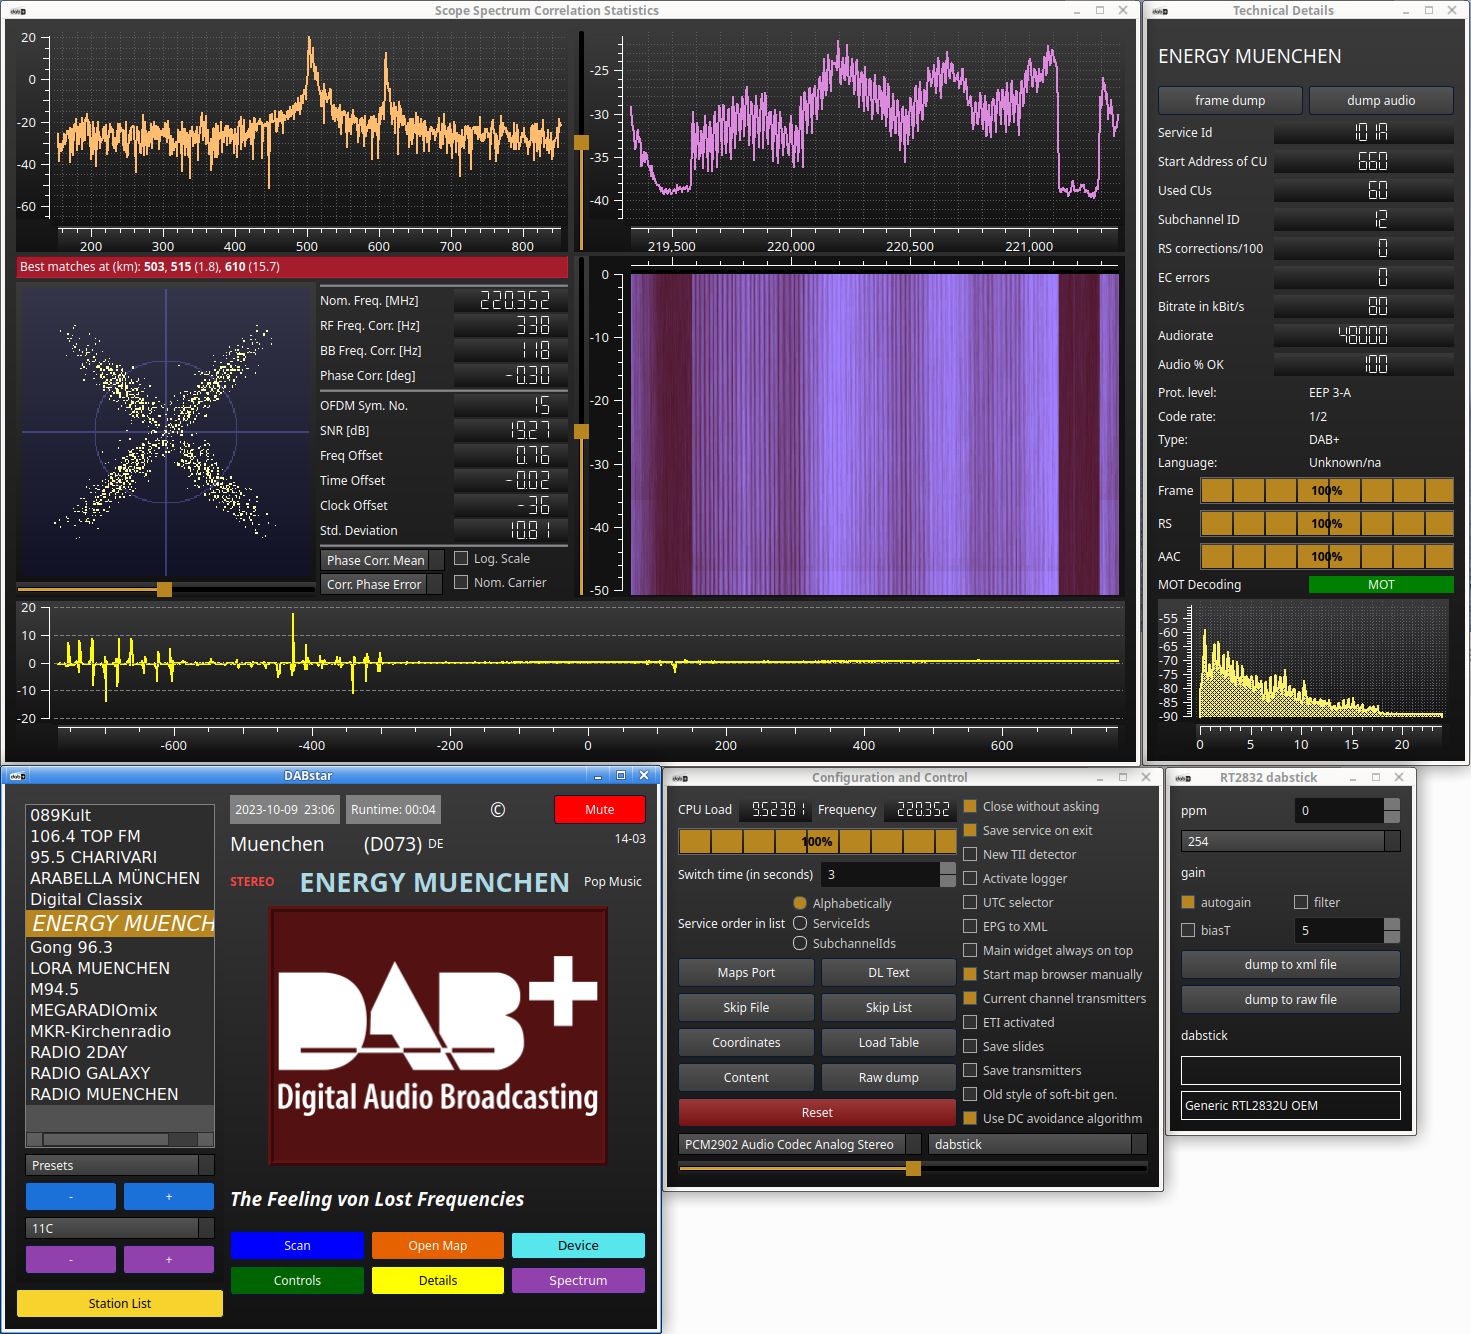
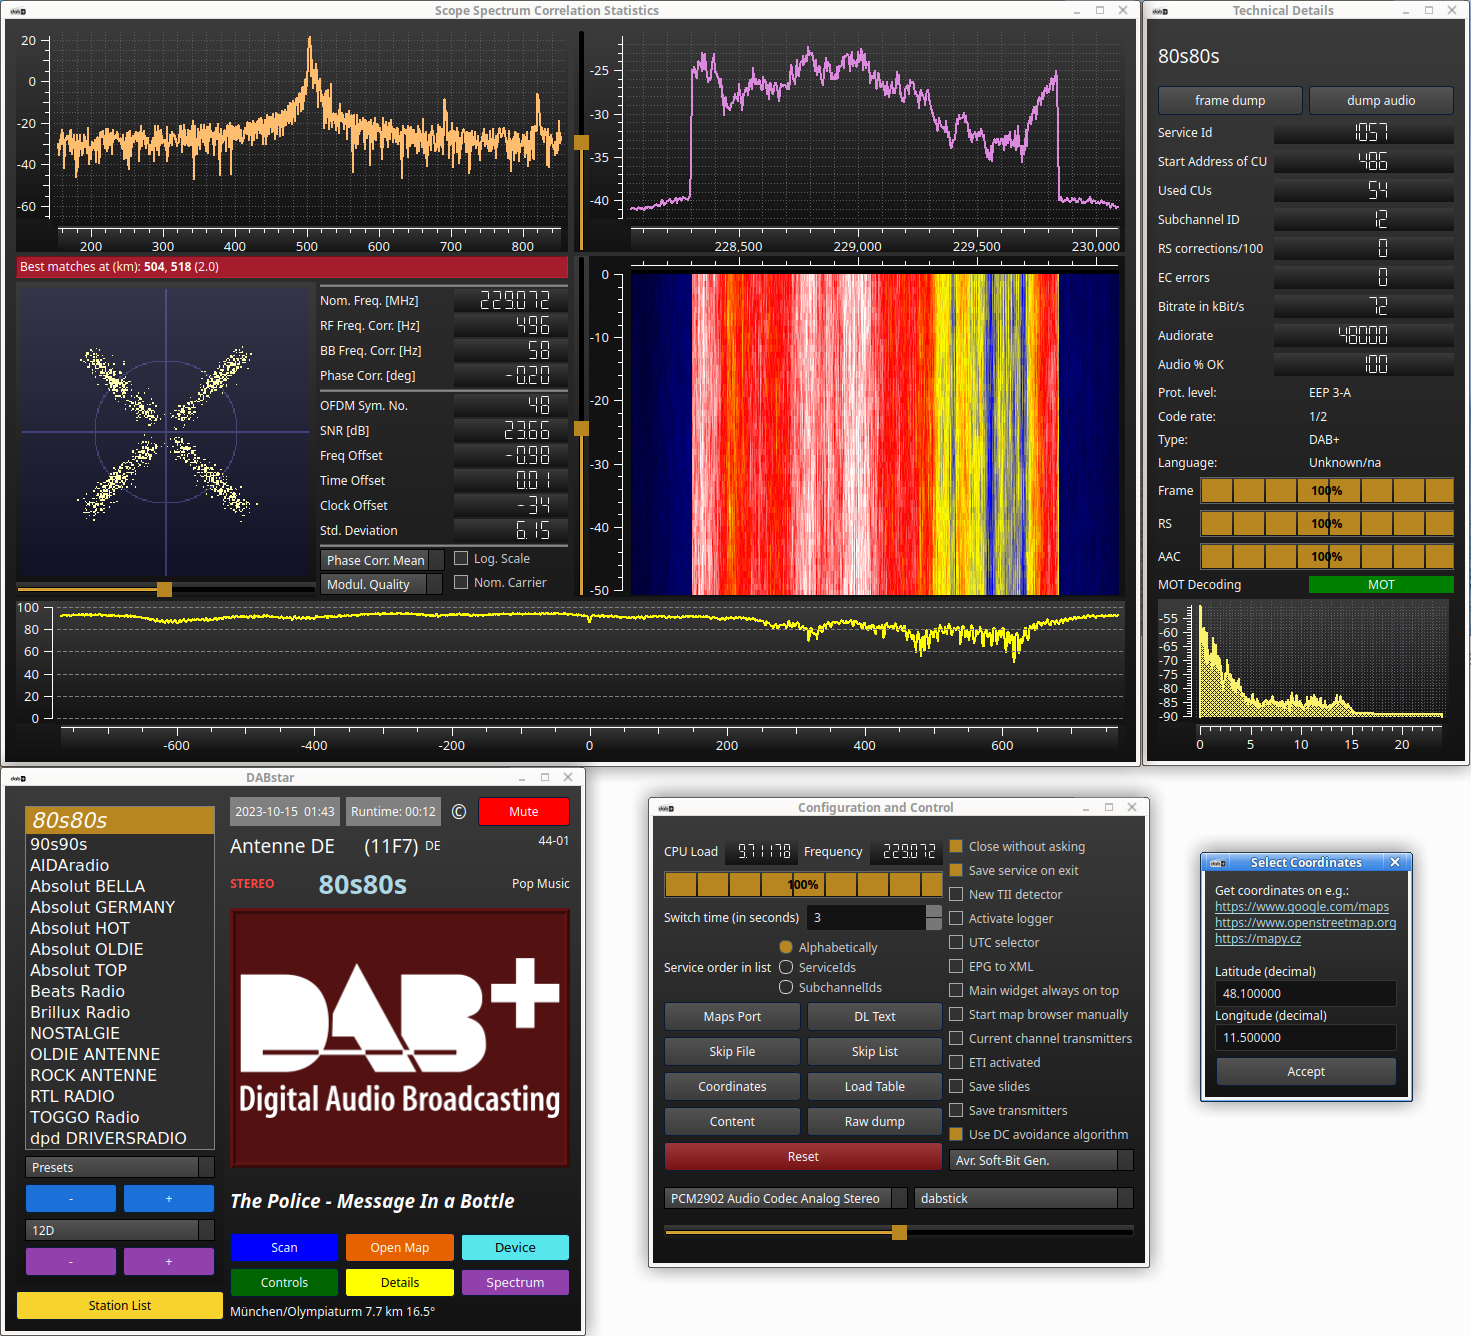
Finale changes for Release V1.4.0

diff --git a/README.md b/README.md
@@ -7,7 +7,8 @@
 ## Table of Content
 <!-- TOC -->
   * [Table of Content](#table-of-content)
-  * [Introducing](#introducing)
+  * [Introduction](#introduction)
+  * [Changes in DABstar version 1.4.0](#changes-in-dabstar-version-140)
   * [Changes in DABstar version 1.3.0](#changes-in-dabstar-version-130)
   * [Changes in DABstar version 1.2.0](#changes-in-dabstar-version-120)
     * [What is new?](#what-is-new)
@@ -26,14 +27,14 @@
     * [Not more working or removed things](#not-more-working-or-removed-things)
 <!-- TOC -->
 
-## Introducing
+## Introduction
 
 [DABstar](https://github.com/tomneda/DABstar) is forked from Jan van Katwijk's great work of [Qt-DAB](https://github.com/JvanKatwijk/qt-dab) from
 [commit](https://github.com/JvanKatwijk/qt-dab/commits/b083a8e169ca2b7dd47167a07b92fa5a1970b249)
 ([tree](https://github.com/JvanKatwijk/qt-dab/tree/b083a8e169ca2b7dd47167a07b92fa5a1970b249))
 from 2023-05-30, fixes afterwards to Qt-DAB afterwards included.
 
-Current main branch version is [V1.3.0](#changes-in-dabstar-version-130).
+Current main branch version is [V1.4.0](#changes-in-dabstar-version-140).
 
 As there are many changes made from my side and there will be bigger changes in the future, 
 I decided to give it the new name **DABstar**.
@@ -48,6 +49,14 @@ For building there is one bigger difference to Qt-DAB: I maintain only one GUI v
 So use only the cmake related installation process.
 
 I will also not provide any precompiled setup packages, yet.
+
+## Changes in DABstar version 1.4.0
+
+- Move style sheet to local resource file.
+- Improve (imo) the waterfall color scheme.
+- Selector for soft-bit calculation algorithm on **Configuration and Control** widget.
+- Add further soft-bit generation schemes (for experimenting while bad receiving conditions).
+- Refine hugely (in the background) **Select Coordinates** widget and place clickable URLs on that for some maps websites to grab the coordinates there (still by hand). 
 
 ## Changes in DABstar version 1.3.0
 
